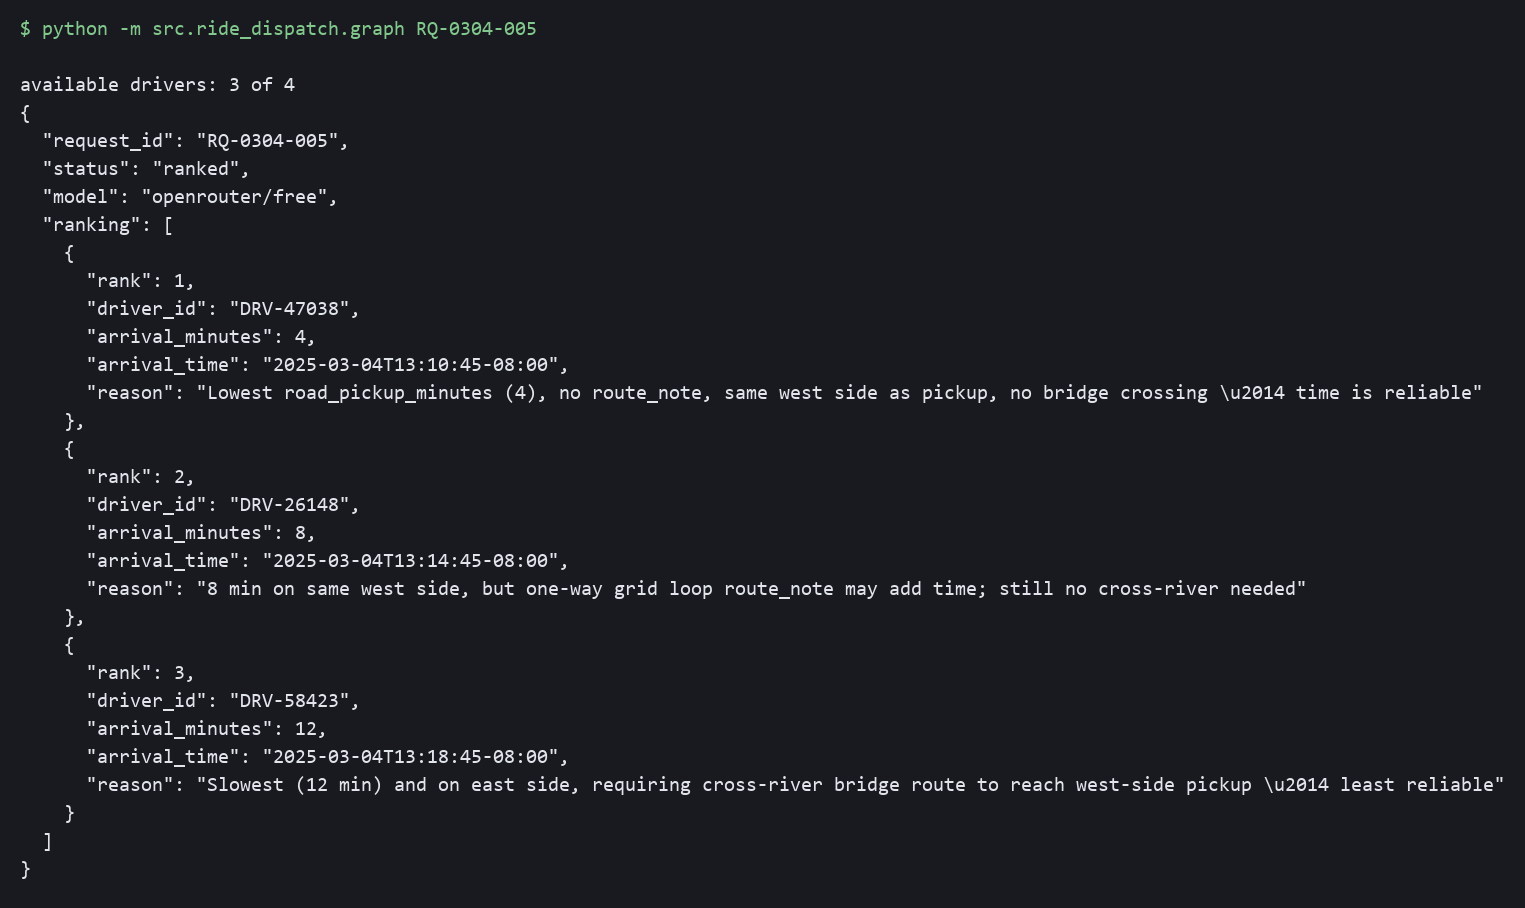
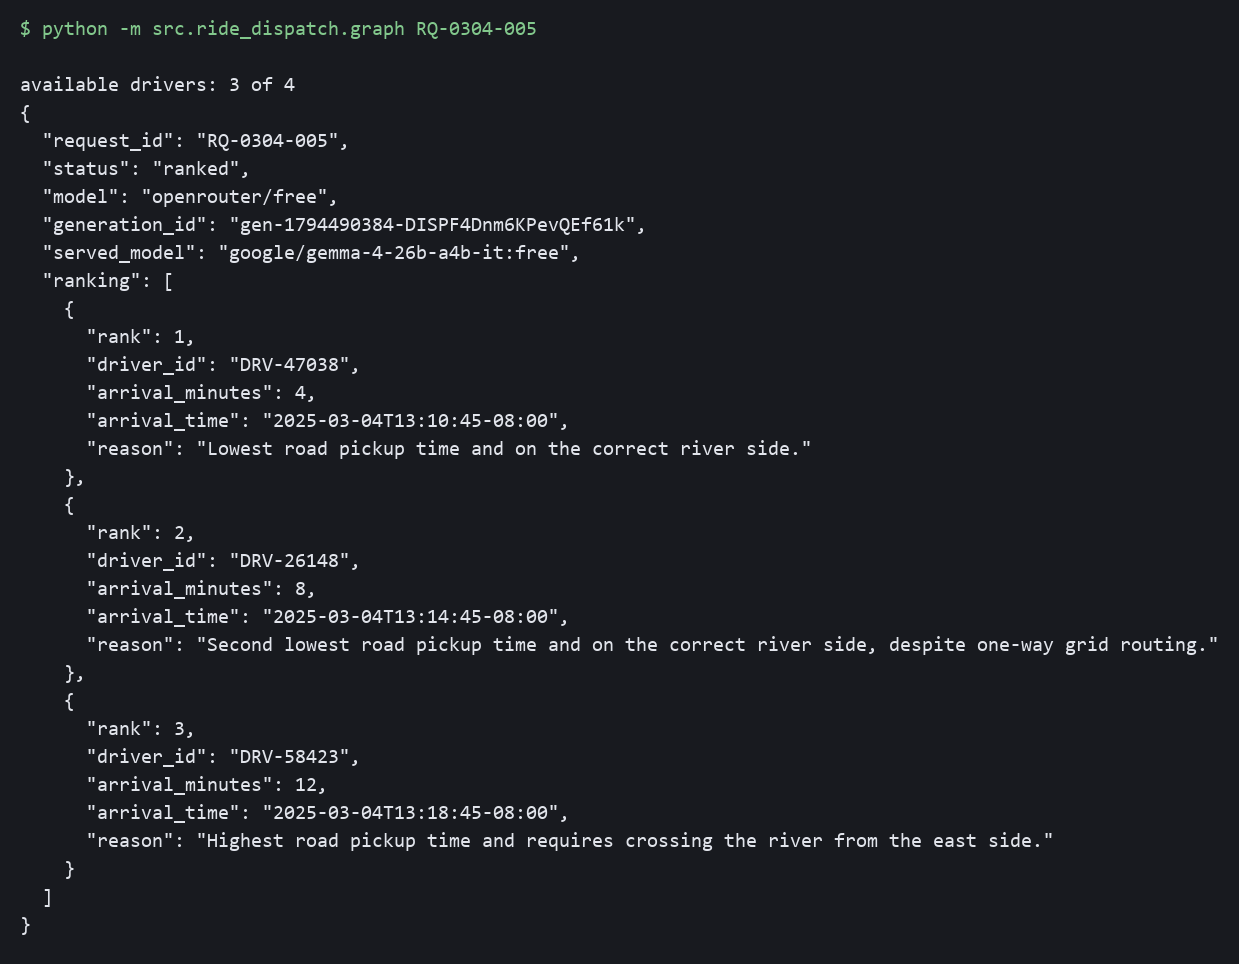
Capture OpenRouter generation id; add record for the RQ-0304-005 run to README

diff --git a/src/ride_dispatch/graph.py b/src/ride_dispatch/graph.py
@@ -96,13 +96,16 @@ def _ask_model(prompt: str) -> dict | None:
                     time.sleep(3 * (attempt + 1))
                     continue
                 resp.raise_for_status()
-                text = resp.json()["choices"][0]["message"]["content"]
+                data = resp.json()
+                text = data["choices"][0]["message"]["content"]
                 start = text.find("{")
                 parsed, _ = json.JSONDecoder().raw_decode(text[start:]) if start != -1 else (None, 0)
             except (requests.RequestException, KeyError, IndexError, TypeError, ValueError):
                 continue  # network/server error, odd response shape, or malformed JSON -> retry
             if isinstance(parsed, dict):
-                return {"model": attempt_model, **parsed}
+                # generation_id is OpenRouter's own request id: it can be looked up on the Activity page / API
+                return {**parsed, "model": attempt_model,
+                        "generation_id": data.get("id"), "served_model": data.get("model")}
     return None  # caller falls back to road-minutes order
 
 
@@ -161,6 +164,8 @@ def rank_drivers(state: State) -> State:
         "request_id": request_id,
         "status": status,
         "model": answer["model"] if answer else None,
+        "generation_id": answer.get("generation_id") if answer else None,
+        "served_model": answer.get("served_model") if answer else None,
         "ranking": ranking,
     }}
 

diff --git a/scripts/lookup_generation.py b/scripts/lookup_generation.py
@@ -1,0 +1,34 @@
+"""Look up one OpenRouter request by its generation id (the `generation_id` in the graph output).
+
+Usage: python scripts/lookup_generation.py gen-xxxxxxxx
+Needs OPENROUTER_API_KEY in .env. Prints OpenRouter's own record of the call.
+"""
+import os
+import sys
+import time
+from pathlib import Path
+
+import requests
+from dotenv import load_dotenv
+
+load_dotenv(Path(__file__).resolve().parents[1] / ".env")
+
+gen_id = sys.argv[1]
+for attempt in range(6):  # the record can take a few seconds to appear
+    resp = requests.get(
+        "https://openrouter.ai/api/v1/generation",
+        params={"id": gen_id},
+        headers={"Authorization": f"Bearer {os.environ['OPENROUTER_API_KEY']}"},
+        timeout=30,
+    )
+    if resp.status_code == 404:
+        time.sleep(3)
+        continue
+    resp.raise_for_status()
+    break
+else:
+    sys.exit(f"No record found for {gen_id}")
+
+import json
+
+print(json.dumps(resp.json().get("data", resp.json()), indent=2))

diff --git a/README.md b/README.md
@@ -32,6 +32,30 @@ Run on `RQ-0304-005` (3 of 4 candidates available):
 
 Full output is in [`docs/output.txt`](docs/output.txt).
 
+### OpenRouter's record of this run
+
+The output carries OpenRouter's own IDs for the call, captured from the API response in the same run that produced the `RQ-0304-005` ranking:
+
+```
+"generation_id": "gen-1794490384-DISPF4Dnm6KPevQEf61k"
+"served_model":  "google/gemma-4-26b-a4b-it:free"      (requested: openrouter/free)
+```
+
+I then looked that ID up with OpenRouter's generation API (`python scripts/lookup_generation.py <generation_id>`). The single record, saved in [`docs/openrouter-record.json`](docs/openrouter-record.json) with account identifiers removed, says:
+
+| Field | Value |
+|---|---|
+| Generation ID | `gen-1794490384-DISPF4Dnm6KPevQEf61k` |
+| Request ID | `req-1794490384-I0f7rd1w1ZY0giEMPlsO` |
+| Time | 2026-11-12 13:33:04 UTC |
+| Requested model | `openrouter/free` (router) |
+| Model that served it | `google/gemma-4-26b-a4b-it-20260403:free` |
+| Provider | Google AI Studio, status 200 |
+| Tokens | 375 prompt, 109 completion |
+| Finish reason / cost | `stop` / $0 |
+
+The record has no prompt text and no `RQ-0304-005` ID, because OpenRouter never sees my request IDs. The link is the generation ID: the graph printed it in the output for `RQ-0304-005`, and the record above is what OpenRouter holds for that ID.
+
 ## Prompt excerpt
 
 From `_build_prompt` in [`src/ride_dispatch/graph.py`](src/ride_dispatch/graph.py):
@@ -103,6 +127,6 @@ The plan had no branch for zero candidates: if every driver was `on_trip` or `of
 
 Activity from my OpenRouter dashboard (Explore tab, Request Count by Model, minute rollup) showing the graph is calling the free models. On 12 Nov it logged 7 requests across 5 free models (Gemma 4 31B 2, Nemotron 3 Ultra 2, Flint 1, ERNIE-5.5-Flash-Preview 1, North Mini Code 1); the `openrouter/free` fallback routes between free models, which is why more than one appears.
 
-The highlighted bar and table row mark the request behind the `RQ-0304-005` output shown above. It is the last request in the chart, served by ERNIE-5.5-Flash-Preview through `openrouter/free`, which matches `"model": "openrouter/free"` in the output. The other bars are my earlier live runs and tests. The dashboard does not record request IDs, so I matched it by order: the `RQ-0304-005` output run was the last live call I made.
+This screenshot is general usage from my earlier live runs and tests, taken before the run shown in the Output section. It does not identify any single request. The record for the `RQ-0304-005` output run is the ID lookup above, not a bar in this chart.
 
 ![OpenRouter activity](docs/openrouter-activity-minute.png)
